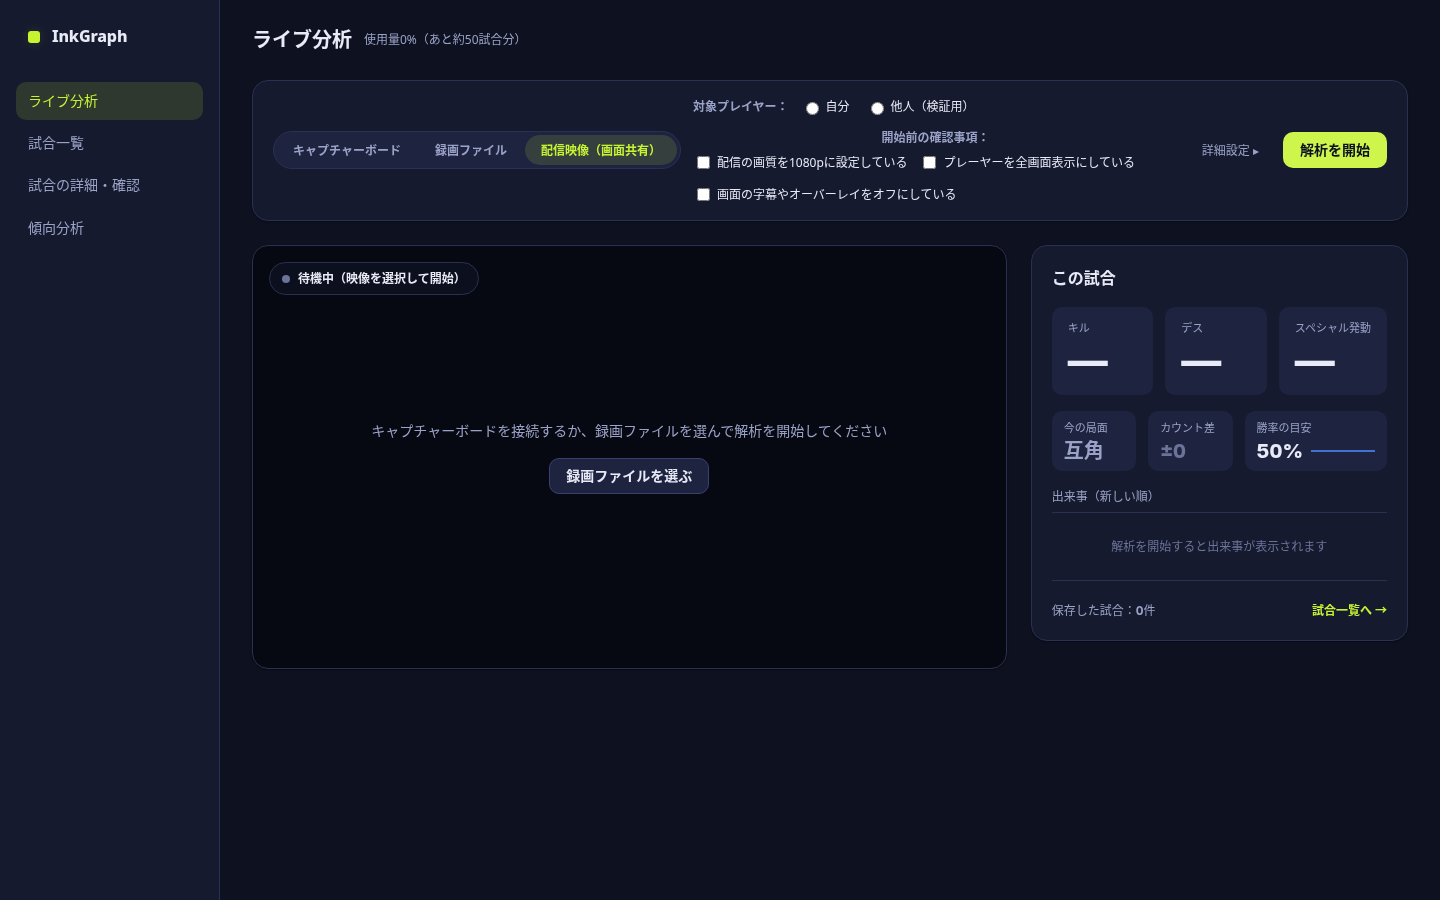
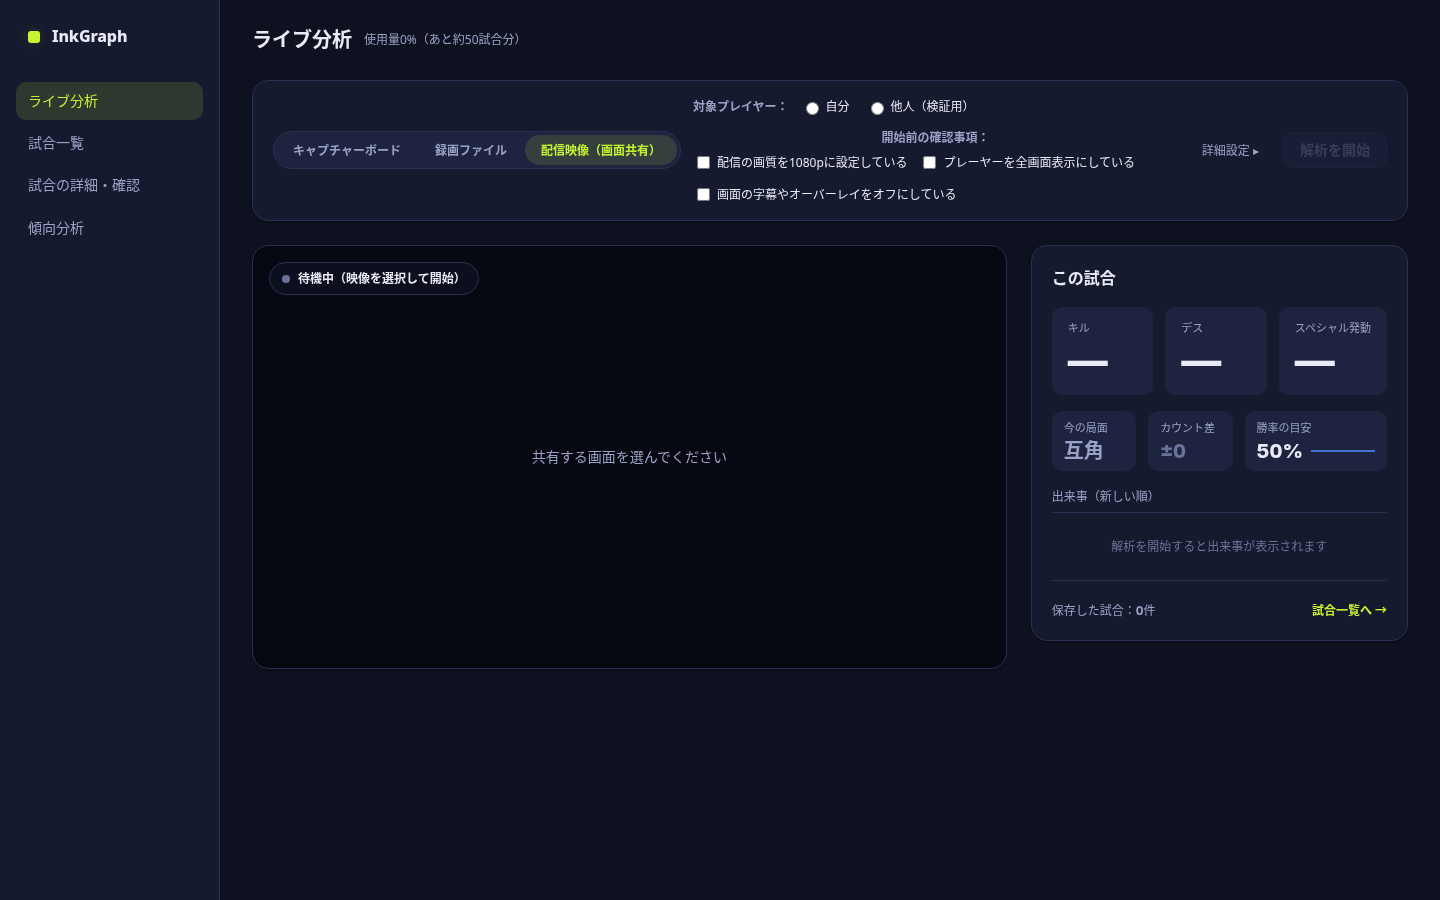
fix: Designer指摘3点を反映（開始ボタンの無効表示・共有空状態・検証用バッジ警告色）

Changed region(s): [[0.2812, 0.4667, 0.5938, 0.56], [0.875, 0.1244, 0.9688, 0.1867]]

diff --git a/web/src/main.js b/web/src/main.js
@@ -422,6 +422,20 @@ PAGES.live = async () => {
 
   $('#to-list', page).onclick = e => { e.preventDefault(); nav('list'); };
 
+  const isStreamReady = () => {
+    const ownerEl = page.querySelector('input[name="stream-owner"]:checked');
+    if (!ownerEl) return false;
+    const streamChecks = Array.from(page.querySelectorAll('.stream-check'));
+    return streamChecks.length > 0 && streamChecks.every(c => c.checked);
+  };
+
+  const syncStartDisabled = () => {
+    if (session && session.running) return;
+    const mode = page.querySelector('input[name="src"]:checked')?.value || 'device';
+    const needStreamReady = mode === 'stream' && !isStreamReady();
+    $('#start', page).disabled = isBlocked || needStreamReady;
+  };
+
   const syncSourceTabs = () => {
     const mode = page.querySelector('input[name="src"]:checked')?.value || 'device';
     page.querySelectorAll('.pill-tab').forEach(lbl => {
@@ -430,8 +444,22 @@ PAGES.live = async () => {
     $('#device-controls', page).style.display = mode === 'device' ? 'flex' : 'none';
     $('#file-controls', page).style.display = mode === 'file' ? 'flex' : 'none';
     $('#stream-controls', page).style.display = mode === 'stream' ? 'flex' : 'none';
+    const emptyP = $('#video-empty p', page);
+    if (emptyP) {
+      emptyP.textContent = mode === 'stream'
+        ? '共有する画面を選んでください'
+        : 'キャプチャーボードを接続するか、録画ファイルを選んで解析を開始してください';
+    }
+    const pickBtn = $('#video-pick-file', page);
+    if (pickBtn) {
+      pickBtn.style.display = mode === 'stream' ? 'none' : '';
+    }
+    syncStartDisabled();
   };
   page.querySelectorAll('input[name="src"]').forEach(r => r.addEventListener('change', syncSourceTabs));
+  page.querySelectorAll('input[name="stream-owner"], .stream-check').forEach(el => {
+    el.addEventListener('change', syncStartDisabled);
+  });
 
   $('#video-pick-file', page).onclick = () => {
     const fileRadio = page.querySelector('input[name="src"][value="file"]');
@@ -601,7 +629,7 @@ PAGES.live = async () => {
         $('#saved', page).innerHTML = `保存した試合：<b class="num">${savedCount}</b>件`;
       },
       stopped: () => {
-        $('#start', page).disabled = false;
+        syncStartDisabled();
         $('#start', page).style.display = 'inline-flex';
         $('#stop', page).disabled = true;
         $('#stop', page).style.display = 'none';
@@ -629,7 +657,7 @@ PAGES.live = async () => {
       });
     } catch (e) {
       alert('開始できませんでした：' + e.message);
-      $('#start', page).disabled = false;
+      syncStartDisabled();
       $('#start', page).style.display = 'inline-flex';
       $('#stop', page).disabled = true;
       $('#stop', page).style.display = 'none';
@@ -838,6 +866,7 @@ PAGES.list = async () => {
               <div class="match-row-col-res">
                 <button class="fav-btn" data-id="${esc(m.id)}" type="button" aria-label="お気に入り" title="お気に入り">${m.favorite === true ? '★' : '☆'}</button>
                 <span class="${badgeCls(r.result)}">${resJa(r.result)}</span>
+                ${isVerificationMatch(m) ? '<span class="verify-badge">検証用</span>' : ''}
                 <span class="match-row-date num">${esc(dtStr)}</span>
               </div>
 
@@ -846,7 +875,6 @@ PAGES.list = async () => {
                 <span class="stills-state">${esc(stillsStateLabel(m))}</span>
                 <span class="export-state" data-state="${FB.exportStateOf(m)}">${esc(EXPORT_STATE_LABEL[FB.exportStateOf(m)])}</span>
                 <span class="result-status" data-status="${rsStat.key}">${esc(rsStat.label)}</span>
-                ${isVerificationMatch(m) ? '<span class="verify-badge">検証用</span>' : ''}
                 ${r.count ? `<span class="match-row-count num">${fmtCount(r.count)}</span>` : ''}
               </div>
 

diff --git a/web/src/style.css b/web/src/style.css
@@ -702,12 +702,18 @@ button, input, select {
 
 .match-row-col-res {
   display: flex;
-  flex-direction: column;
-  align-items: flex-start;
-  gap: 3px;
+  flex-direction: row;
+  flex-wrap: wrap;
+  align-items: center;
+  gap: 3px 6px;
+}
+
+.match-row-col-res .fav-btn {
+  margin-right: 100%;
 }
 
 .match-row-date {
+  flex-basis: 100%;
   font-size: var(--fs-sm);
   color: var(--text-muted);
 }
@@ -1443,9 +1449,9 @@ tr.added td {
   align-items: center;
   justify-content: center;
   border-radius: 999px;
-  border: 1px solid var(--border-strong);
-  background: var(--surface-2);
-  color: var(--text-muted);
+  border: 1px solid var(--warn-border);
+  background: var(--warn-soft);
+  color: var(--warn);
   font-size: 11px;
   line-height: 1.2;
   padding: 2px 8px;
